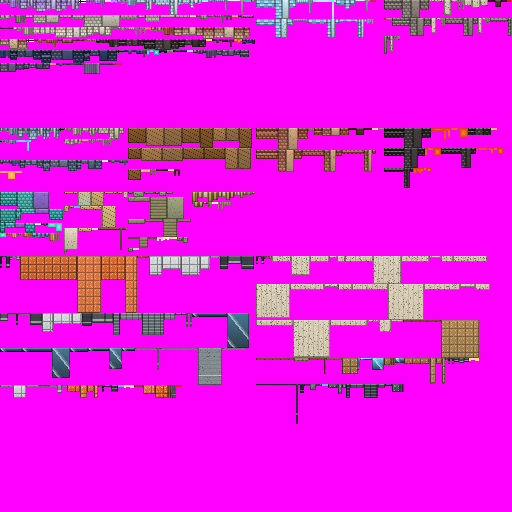
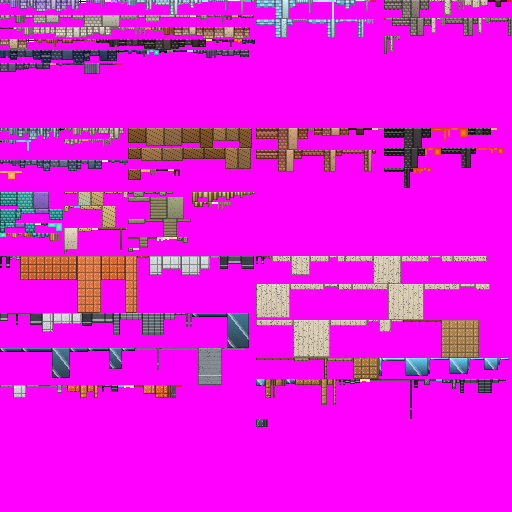
Batel: cabina de cristal en burbuja al frente
Claude-Session: https://claude.ai/code/session_01HcJ1Jo3czy3N82N8WbdKcy

Changed region(s): [[0.5, 0.6875, 1.0, 0.8125], [0.5, 0.8125, 0.5312, 0.8438]]

diff --git a/assets/modelos/batel.py b/assets/modelos/batel.py
@@ -1,5 +1,5 @@
 """El Batel, estilo bloque: batisfera redonda, nada que ver con la Rémora. Una esfera de
-presión de marfil (anillos de placas) con un gran ojo de buey delantero de cristal y aros de
+presión de marfil (anillos de placas) con una cabina de cristal en burbuja delante y aros de
 cobre, ojos de buey laterales, dos tanques de lastre de cobre
 encima, focos, patines de apoyo y una hélice carenada detrás, ~2,8 m de diámetro.
 Piezas: hélice#1 (centrada en x = y = 0, z = -1,75) y casco#2."""
@@ -29,9 +29,14 @@ for k in range(-4, 5):                                   # la esfera: anillos de
 c.caja((0, R - 0.05, 0), (0.6, 0.12, 0.6), MAR)          # casquetes
 c.caja((0, -R + 0.05, 0), (0.6, 0.12, 0.6), MAR)
 tubo_bloque(c, (0, 0, 0), R + 0.04, 0.12, COB, lados=12, eje='y')            # aro del ecuador
-# gran ojo de buey delantero con su marco de cobre
-c.caja((0, 0.15, R - 0.05), (0.8, 0.8, 0.12), COB)
-c.caja((0, 0.15, R + 0.02), (0.62, 0.62, 0.04), {'todo': E("cupula", 0x6ad8ff, 0x1a4a6a)})
+# cabina: una cúpula de cristal en burbuja escalonada al frente, con marco de cobre
+GLAS = {'todo': E("cupula", 0x6ad8ff, 0x1a4a6a)}
+c.caja((0, 0.12, R - 0.12), (1.3, 1.05, 0.16), COB)
+c.caja((0, 0.12, R - 0.02), (1.14, 0.92, 0.14), GLAS)
+c.caja((0, 0.12, R + 0.1), (0.96, 0.78, 0.12), GLAS)
+c.caja((0, 0.12, R + 0.2), (0.72, 0.58, 0.1), GLAS)
+c.caja((0, 0.12, R + 0.27), (0.44, 0.34, 0.06), GLAS)
+c.caja((0, 0.12, R + 0.18), (0.06, 0.95, 0.3), COB)                         # nervio del marco
 for s in (1, -1):
     c.caja((s * (R - 0.05), 0.2, 0.2), (0.1, 0.36, 0.36), COB)              # ojos de buey laterales
     c.caja((s * (R + 0.01), 0.2, 0.2), (0.04, 0.26, 0.26), {'todo': E("cupula", 0x6ad8ff, 0x1a4a6a)})
